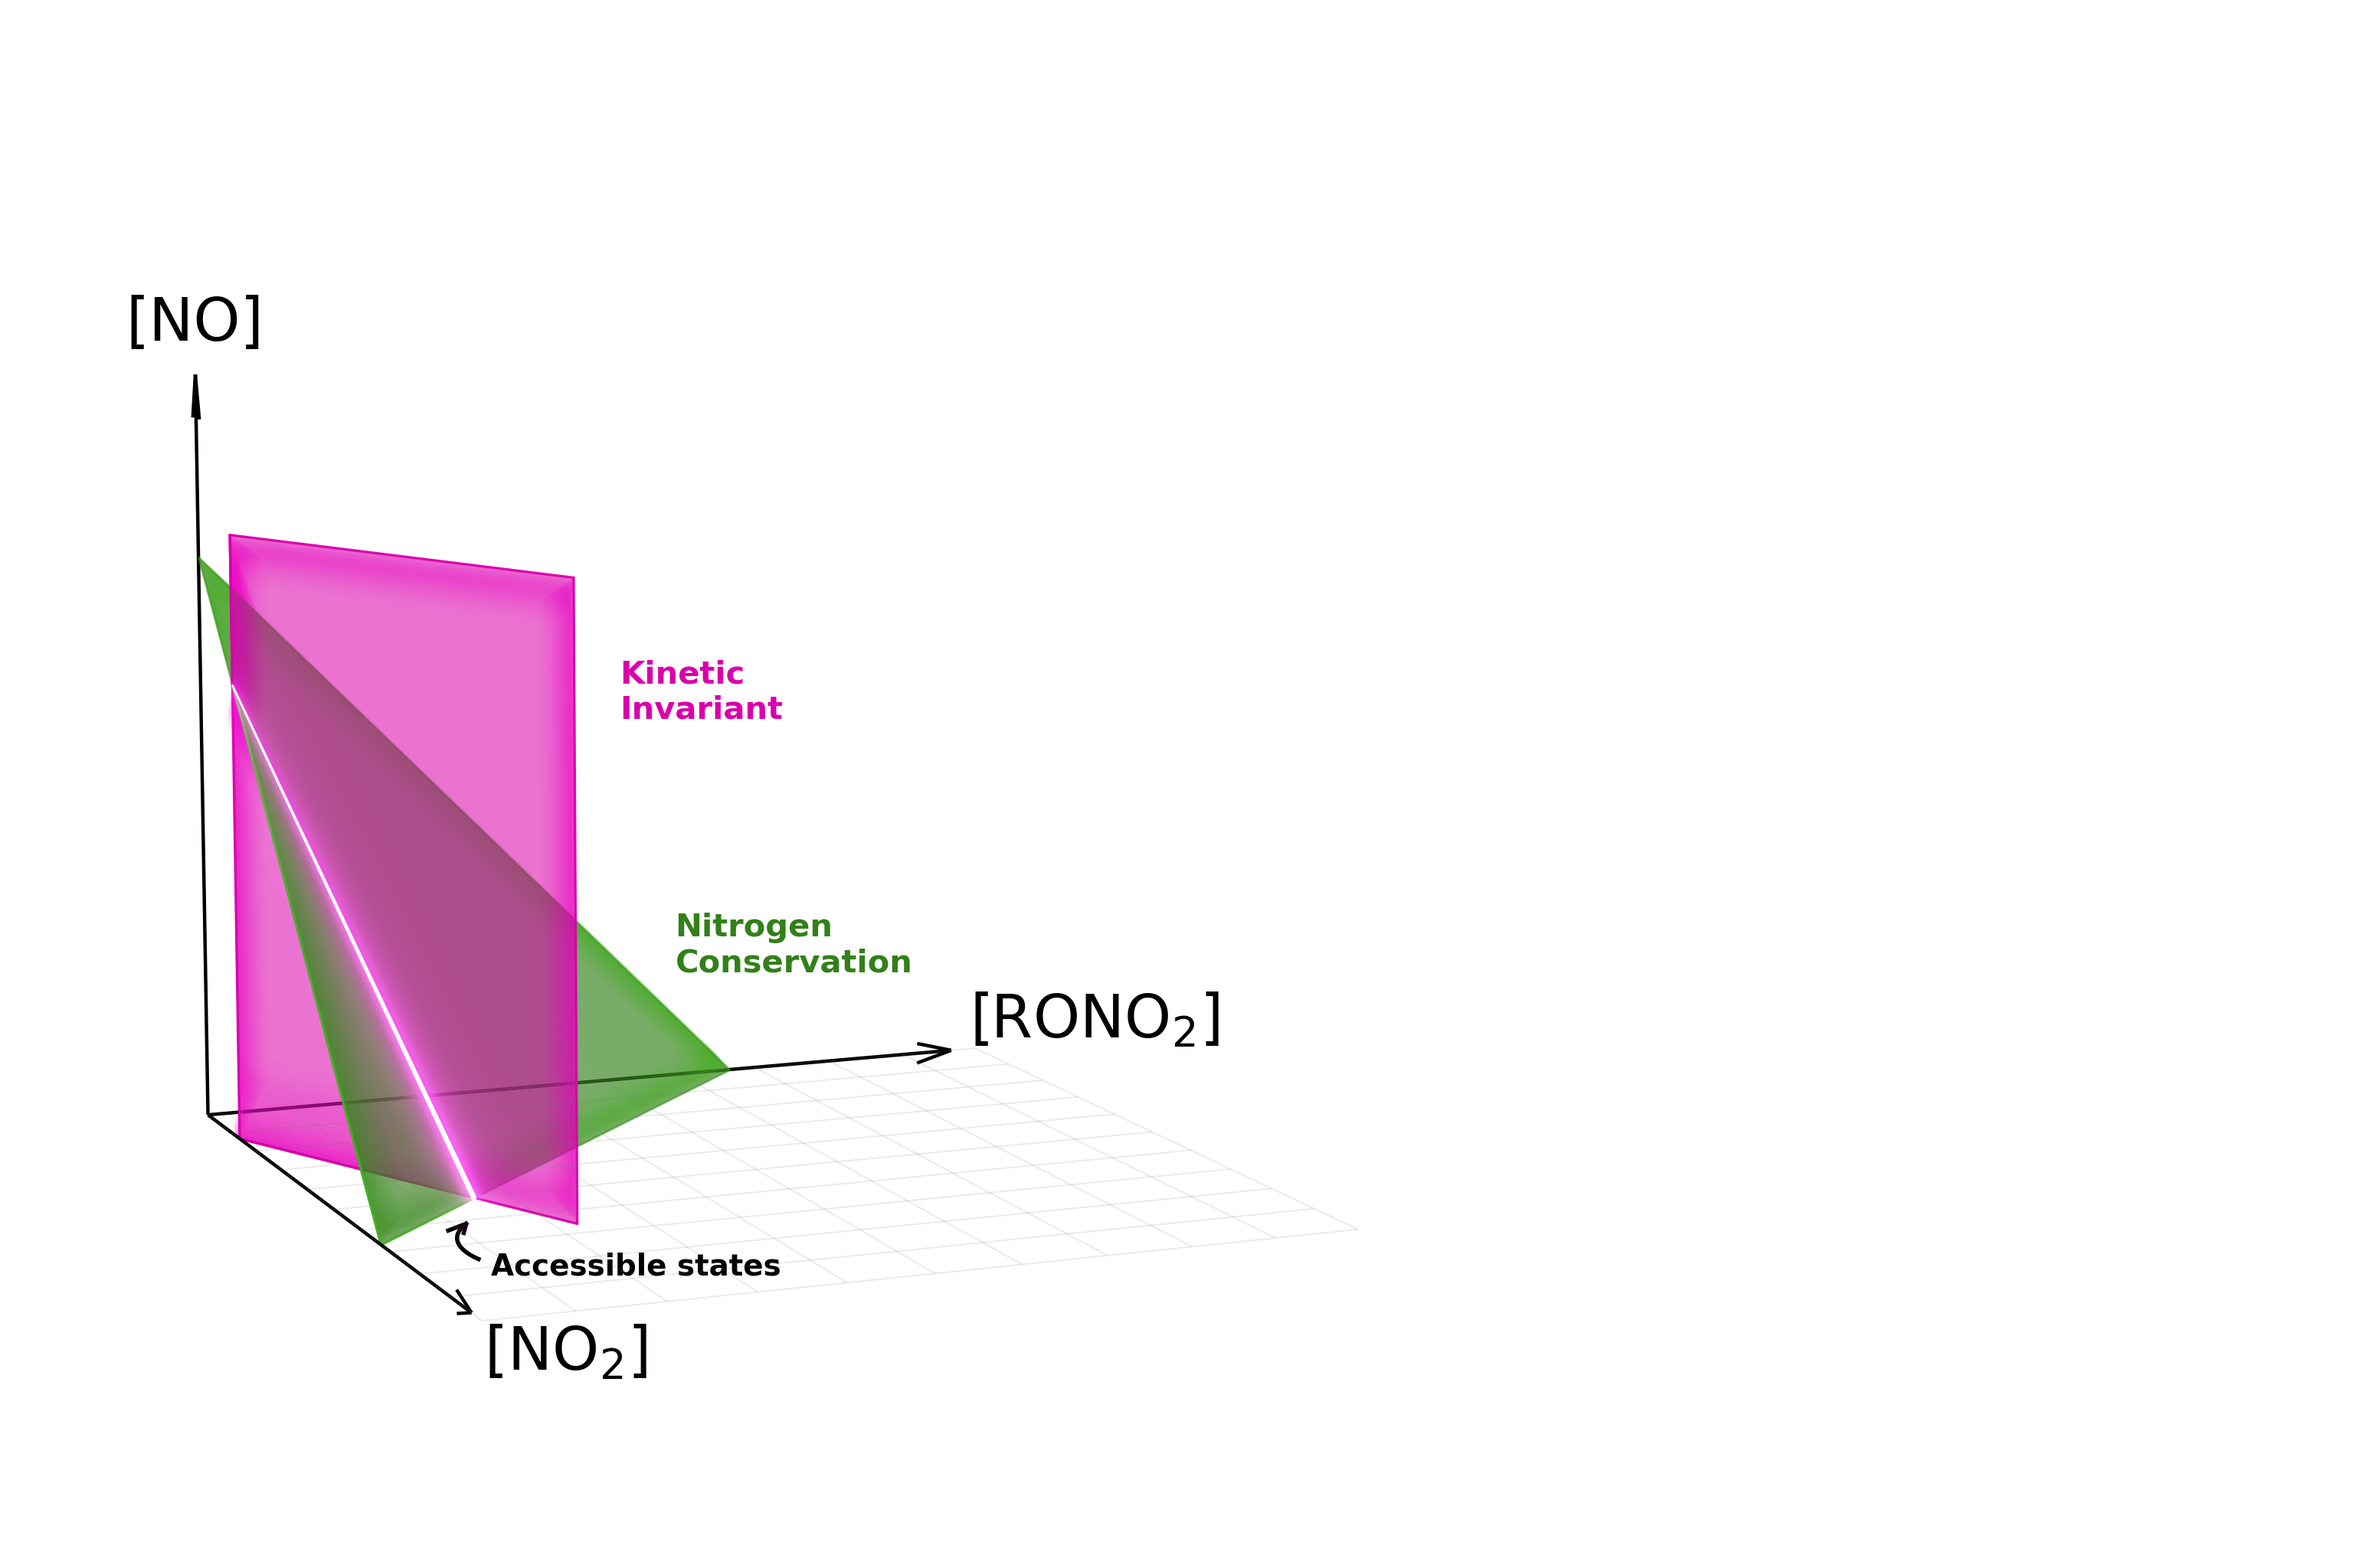
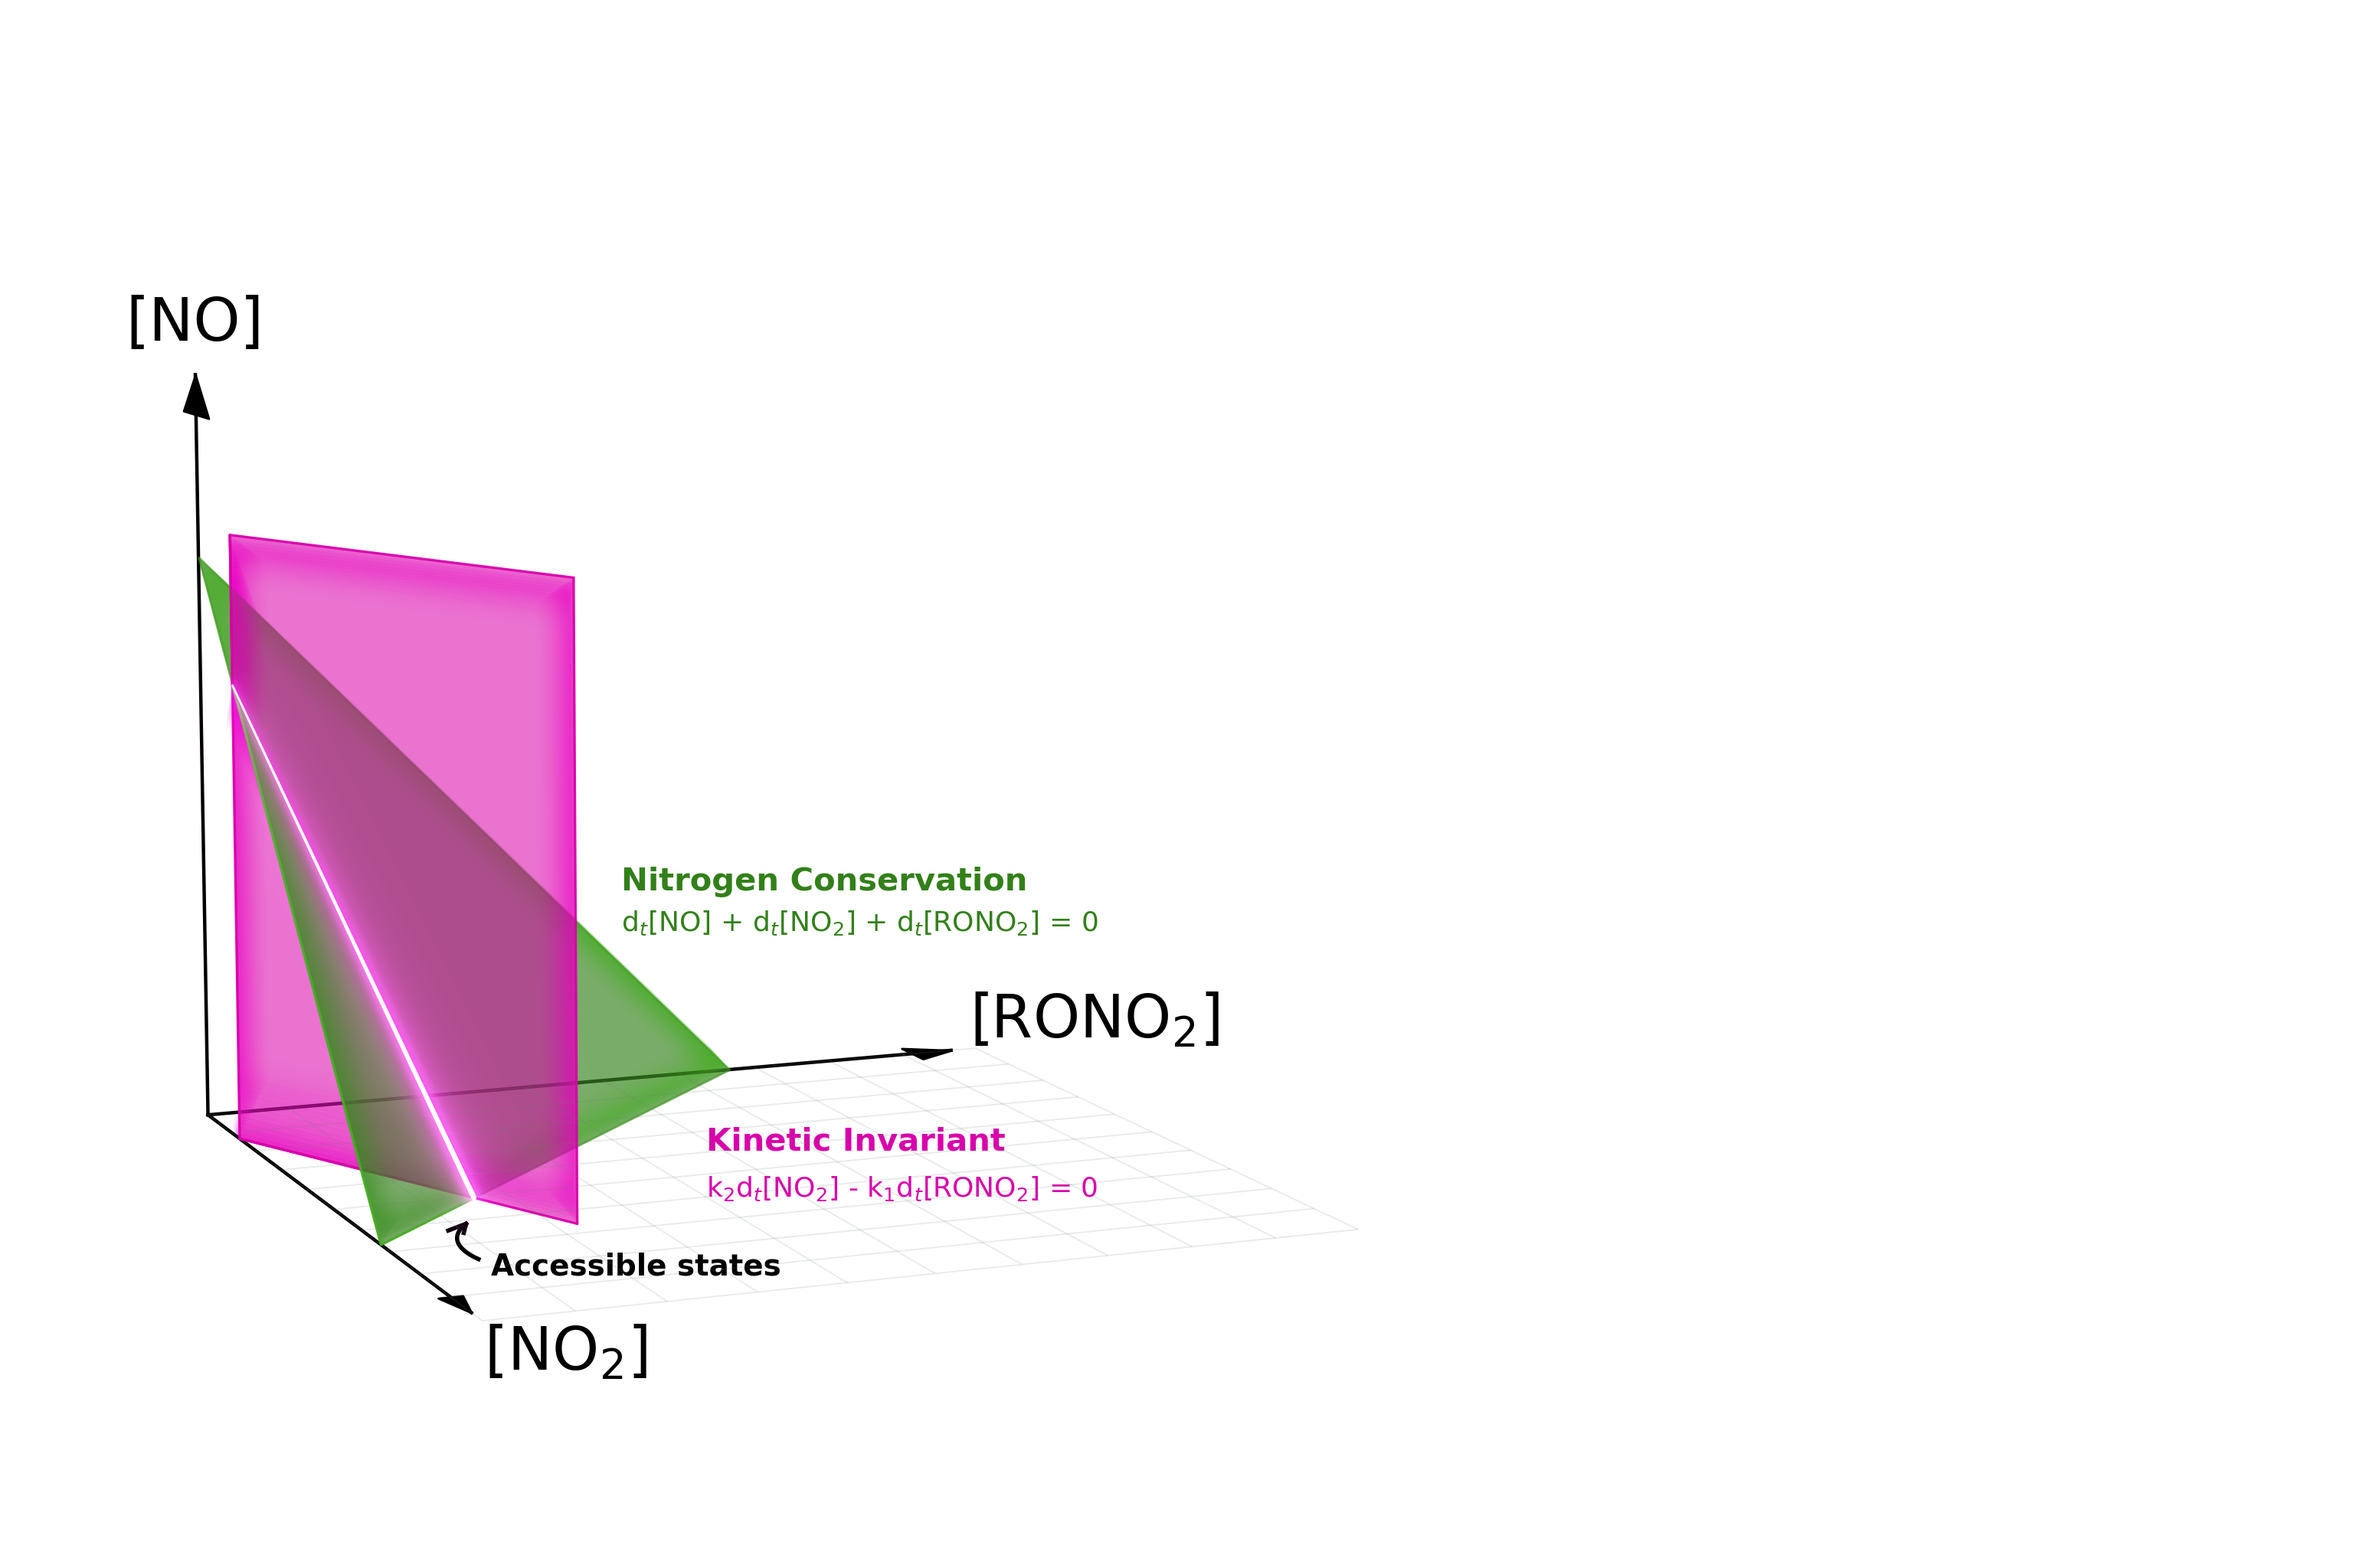
update

diff --git a/matplotlib_version_white.py b/matplotlib_version_white.py
@@ -368,9 +368,9 @@ def draw_axis(ax, start, end, color="black",
 
 
 axis_len = {"x": 1.45, "y": 1.45, "z": 1.32}
-draw_axis(ax, [0,0,0], [axis_len["x"],0,0], color="black")
-draw_axis(ax, [0,0,0], [0,axis_len["y"],0], color="black")
-draw_axis(ax, [0,0,0], [0,0,axis_len["z"]], color="black")
+draw_axis(ax, [0,0,0], [axis_len["x"],0,0], color="black", head_length=0.10, head_width=0.02)
+draw_axis(ax, [0,0,0], [0,axis_len["y"],0], color="black", head_length=0.08, head_width=0.05)
+draw_axis(ax, [0,0,0], [0,0,axis_len["z"]], color="black", head_length=0.07, head_width=0.08)
 
 # ax.quiver(0, 0, 0, axis_len["x"], 0, 0, color="black", lw=1.6, arrow_length_ratio=0.05)
 # ax.quiver(0, 0, 0, 0, axis_len["y"], 0, color="black", lw=1.6, arrow_length_ratio=0.05)
@@ -383,19 +383,31 @@ ax.set_xlim(0, 1.5); ax.set_ylim(0, 1.5); ax.set_zlim(0, 1.4)
 ax.set_box_aspect((1.5, 1.5, 1.4)); ax.set_axis_off()
 
 ax.text(
-    0.50, 0.70, 0.30,
-    "Nitrogen\nConservation",
+    0.50, 0.60, 0.45,
+    "Nitrogen Conservation",
     color=GREEN,
     fontsize=15,
     fontweight="bold"
 )
+ax.text(
+    0.50, 0.60, 0.38,
+    "d$_t$[NO] + d$_t$[NO$_2$] + d$_t$[RONO$_2$] = 0",
+    color=GREEN,
+    fontsize=13
+)
 
 ax.text(
-    0.50, 0.60, 0.75,
-    "Kinetic\nInvariant",
+    0.90, 0.60, 0.08,
+    "Kinetic Invariant",
     color=MAGENTA,
     fontsize=15,
     fontweight="bold"
+)
+ax.text(
+    0.90, 0.60, 0,
+    "k$_2$d$_t$[NO$_2$] - k$_1$d$_t$[RONO$_2$] = 0",
+    color=MAGENTA,
+    fontsize=13
 )
 
 ax.text(
@@ -416,30 +428,6 @@ theta = np.linspace(np.pi*0.3, np.pi*0.8, len(t))
 x = cx + r*np.cos(theta)
 y = cy - r*np.sin(theta)
 z = cz + 0.03*t
-
-# ax.plot(x, y, z, color="white", lw=2)
-
-# # use a longer, normalized arrow direction
-# dx = x[-1] - x[-2]
-# dy = y[-1] - y[-2]
-# dz = z[-1] - z[-2]
-# L = (dx**2 + dy**2 + dz**2) ** 0.5
-
-# angle = np.deg2rad(60)  # rotate head by 20 degrees
-# dx2 = dx*np.cos(angle) - dy*np.sin(angle)
-# dy2 = dx*np.sin(angle) + dy*np.cos(angle)
-
-# ax.quiver(
-#     x[-2], y[-2], z[-2],          # start a bit before the end
-#     dx/L, dy/L, dz/L,             # normalized direction
-#     length=0.06,                  # make the head/shaft visible
-#     normalize=True,
-#     color="white",
-#     linewidth=2,
-#     arrow_length_ratio=0.8,
-#     pivot="tail"
-# )
-
 
 def draw_curved_arrow_with_roll(ax, x, y, z, head_len=0.03, head_width=0.015, roll=0.0, color="black", lw=2):
     # shaft
@@ -470,8 +458,9 @@ def draw_curved_arrow_with_roll(ax, x, y, z, head_len=0.03, head_width=0.015, ro
     # draw head
     ax.plot([left[0], p2[0], right[0]], [left[1], p2[1], right[1]], [left[2], p2[2], right[2]],
             color=color, lw=lw)
-
+    
 draw_curved_arrow_with_roll(ax, x, y, z, roll=np.deg2rad(0))
+
 
 
 fig.subplots_adjust(left=-0.02, right=1.02, top=1.04, bottom=-0.04)
